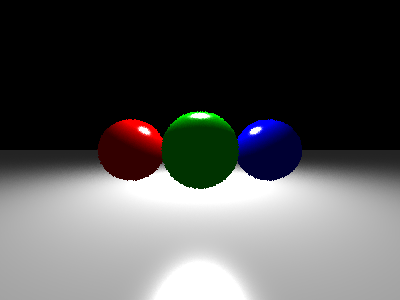
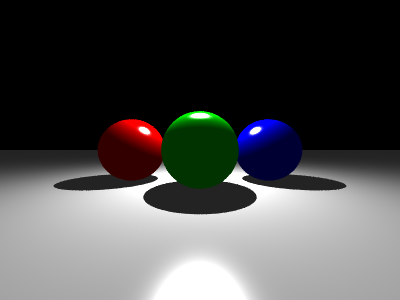
Redefine shadow ray creation

diff --git a/light.py b/light.py
@@ -15,47 +15,27 @@ class Light:
         self.color = color
     
     def radiance(self, world, hit:Hit) -> Tuple[float, np.ndarray]:
-        light_dir:np.ndarray = self.position - hit.point
+        light_dir:np.ndarray = utils.normalize(self.position - hit.point)
         # light_dir:np.ndarray = utils.normalize(self.position - hit.point)
         _light_dist:float = float(np.linalg.norm(self.position - hit.point))
+        shadow_origin:np.ndarray = hit.point + utils.HIT_TOLERANCE * hit.normal
 
-        shadow_ray:Ray = Ray(hit.point, light_dir)
+        shadow_ray:Ray = Ray(shadow_origin, light_dir)
 
         shadow_intersection: Hit | Light | None = world.get_nearest_hit(shadow_ray)
-
-        # if shadow_intersection == self or shadow_intersection is None:
-        #     r:float = utils.distance(hit.point, self.position)
-        #     light_intensity:float = self.power / pow(r, 2)
-
-        #     return (light_intensity, utils.normalize(light_dir))
-        # else:
-        #     return (0.0, colors.BLACK)
-
-        r:float = utils.distance(hit.point, self.position)
-        light_intensity:float = self.power / pow(r, 2)
-
-        return (light_intensity, utils.normalize(light_dir))
-
-        # r = utils.distance(hit.point, self.position)
-        # light_intensity = self.power / pow(r, 2)
-
-        # return (light_intensity,light_dir)
-
-        # Check intersections
-        # shadow_hit = None
-
-        # for hittable in world.hittables:
-        #     shadow_hit:Hit = hittable.intersects(shadow_ray)
-            # if isinstance(hit_evaluation, Light):
-            #     print(f"Light!")
-
-
-            # if shadow_hit is not None:
-            #     if shadow_hit.t < _light_dist:
-            #         return (colors.BLACK, colors.BLACK)
         
+        # Verificação adicional
+        if shadow_intersection is self:
+            r:float = utils.distance(hit.point, self.position)
+            light_intensity:float = self.power / pow(r, 2)
 
-        # return (light_intensity, light_dir)
+            return light_intensity, light_dir
+        else:
+            return 0.0, np.array([0.0, 0.0, 0.0])
+
+
+       
+
     
     def intersects(self, ray:Ray) -> 'Light | None':
         """
@@ -67,8 +47,8 @@ class Light:
         to_light = self.position - ray.origin
         t = np.dot(to_light, ray.direction)
 
-        # if t < 0:
-        #     return None
+        if t < 0:
+            return None
         
         estimated_hit = ray.at(t)
 
@@ -76,6 +56,3 @@ class Light:
             return self
         else:
             return None
-
-        # if pos_at_ray == self.position:
-        #     return True
